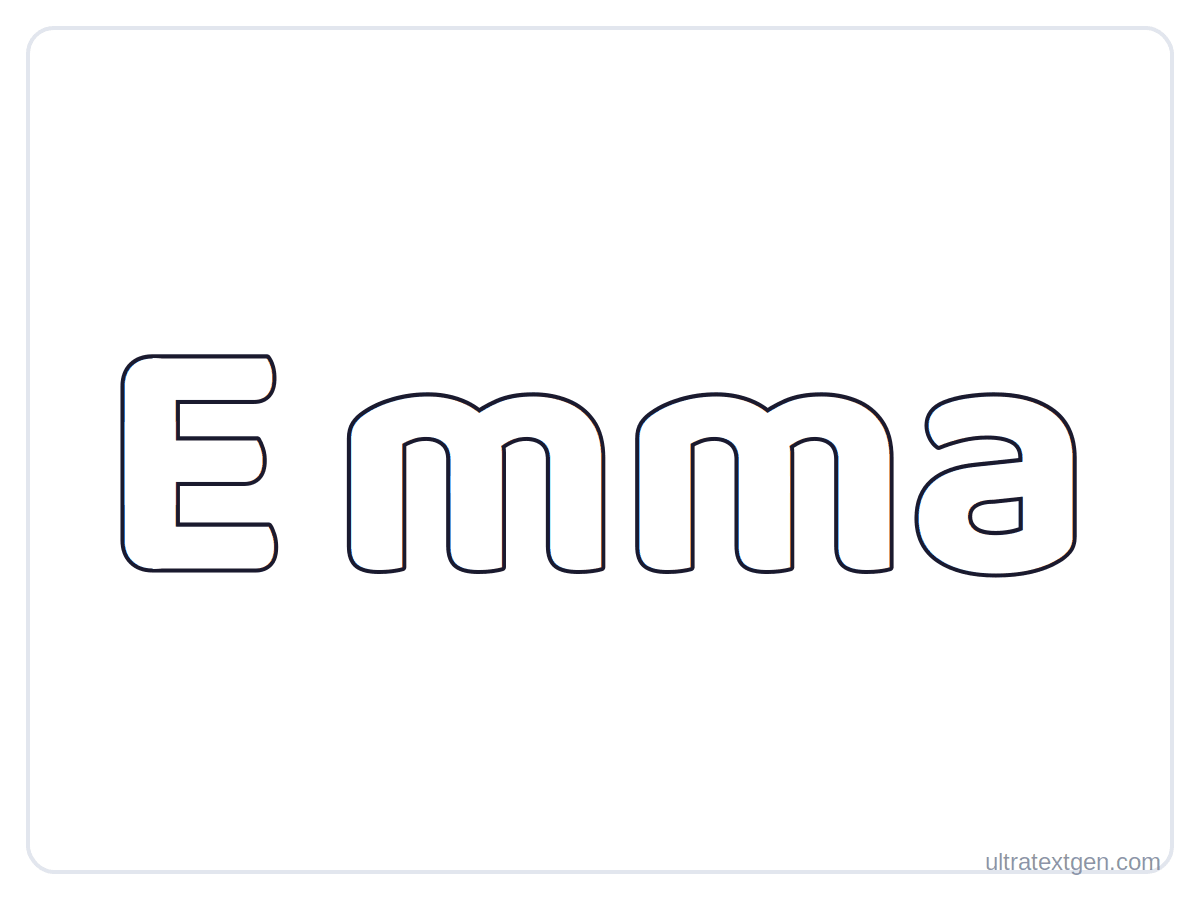
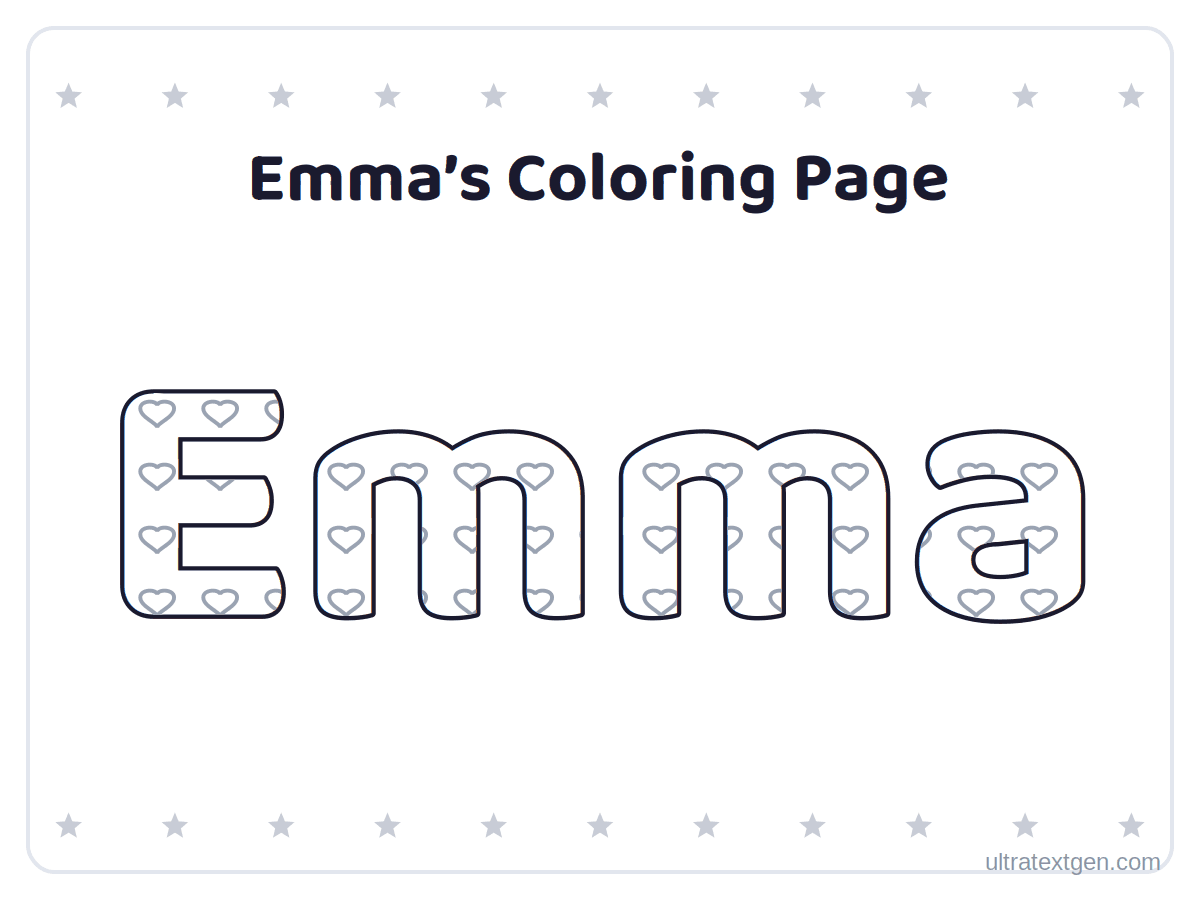
fix(printables): stop the maker's sheet preview copying its own live default
The one indexable image on /printables/coloring-page-maker/ was a raster copy
of the live preview directly above it. Both come from the same value: the
page's `designer.demo: "Emma"`, drawn by r_word_outline as a plain hollow word
with no heading and no border, which is byte-for-byte the state the tool boots
into (designState = {fill:"plain", border:"none"}).

The figure is not decoration and is not removed. generate-printables-previews.py
records why it exists: Bing Images logged impressions and no clicks on the
printables pages because the only indexed image per page was the branded OG
card, and the live preview is JS-built into an empty div, so it is invisible to
image search and to crawlers that run no JavaScript. So the fix is to make it
stop being a duplicate rather than to delete it.

It now draws a configuration the tool really produces and the default does not:
a heart letter fill, a star border row top and bottom, and the page's own
example heading. All geometry is printablesEngine.js's own (BORDER_FS 34 at
y=78, heading 62 at y=168, the 48-unit pattern tile, addBorderRow's 11 symbols)
expressed against its 1000x1400 sheet and mapped onto this landscape card, and
the pattern tile keeps its ratio to the letter so the fill reads as it prints.

Three things that are not obvious:

- The heading is HARVESTED from each page's own #pt-design-heading placeholder,
  never authored here, so the de/it/pl previews carry their own language. The
[…]

diff --git a/printables/alphabet-coloring-pages/index.html b/printables/alphabet-coloring-pages/index.html
@@ -435,7 +435,7 @@ window.__h82AlnkH6D91__("WyJwdWItODI0MjMyNDE2NDQxMzk0NSIsW251bGwsbnVsbCxudWxsLCJ
           <button type="button" class="bubble-btn" id="pt-name-png">Download PNG</button>
         </div>
       </div>
-      <p class="bubble-az-intro">Want patterned letters, a border and a class list? The <a href="/printables/coloring-page-maker/">Coloring Page Maker</a> adds fills, frames and a roster to the same sheet.</p>
+      <p class="bubble-az-intro">Want patterned letters, a border or a class list? The <a href="/printables/coloring-page-maker/">Coloring Page Maker</a> adds fills, frames, a heading, a name-and-date line and a roster to the same sheet.</p>
     </section>
 <figure class="guide-hero-figure pt-sheet-preview">
   <img src="/assets/printables-previews/printables-alphabet-coloring-pages.png" width="1200" height="900"
@@ -609,12 +609,6 @@ window.__h82AlnkH6D91__("WyJwdWItODI0MjMyNDE2NDQxMzk0NSIsW251bGwsbnVsbCxudWxsLCJ
         <a href="/printables/bubble-letters/">bubble letters</a> or
         <a href="/printables/block-letters/">block letter stencils</a>.</p>
     </section>
-
-    <div class="cta-card">
-      <h3>Want a name or word coloring page?</h3>
-      <p>Type any name or word and make your own coloring page — with a heading, a name-and-date line, cute borders, and dotted or starry fills to color.</p>
-      <a class="cta-btn" href="/printables/coloring-page-maker/">Open the coloring page maker →</a>
-    </div>
 
     <div class="cta-card">
       <h3>Want a puzzle before the coloring?</h3>

diff --git a/printables/coloring-page-maker/index.html b/printables/coloring-page-maker/index.html
@@ -310,11 +310,11 @@ window.__h82AlnkH6D91__("WyJwdWItODI0MjMyNDE2NDQxMzk0NSIsW251bGwsbnVsbCxudWxsLCJ
         </div>
       </div>
     </section>
-
 <figure class="guide-hero-figure pt-sheet-preview">
   <img src="/assets/printables-previews/printables-coloring-page-maker.png" width="1200" height="900"
-       alt="Name coloring page sample: the name Emma as large hollow letters to color in" loading="lazy">
+       alt="Name coloring page sample: the name Emma as large hollow letters filled with hearts to color in, under a heading and inside a star border" loading="lazy">
 </figure>
+
 
 
     <!-- Editorial -->

diff --git a/scripts/generate-printables-previews.py b/scripts/generate-printables-previews.py
@@ -24,7 +24,15 @@ stroke, traceWordSVG()'s three ruled guides and dash specs, the dot-to-dot
 engine's outer-silhouette numbered loop, flagSVG()'s dashed pennants. The
 Unicode glyph families (cursive / calligraphy) go through the same registry
 maps in styles.js the engine renders with. Nothing here is a second copy of
-page copy: the image is text-free apart from the letters and the cred line.
+page copy.
+
+Correction 2026-09-16: that sentence used to end "...: the image is text-free
+apart from the letters and the cred line", which the coloring-page-maker sheet
+no longer is, because it draws a heading. The PRINCIPLE is unchanged and is
+the half that binds: the heading is HARVESTED from the page's own
+`#pt-design-heading` placeholder (heading_example below), exactly as `demo`
+and the cross-stitch sample word already are, so there is still one owner and
+a locale page cannot end up with an English heading. Never hardcode copy here.
 
 Build-time only — the same line generate-site-art.py already draws: cairosvg
 rasterises the SVG here, on a developer machine or in CI, and the site ships
@@ -147,6 +155,29 @@ def _first_family(font_css):
     return first or None
 
 
+# "e.g. " / "z. B. " / "es. " / "np. " -- one or two short letter groups, each
+# closed by a period. Every locale writes its own, so the example heading is
+# read off the page and the lead-in stripped rather than authored here.
+EG_PREFIX_RE = re.compile(r"^(?:[^\W\d_]{1,3}\.\s*){1,2}", re.UNICODE)
+
+
+def heading_example(raw):
+    """The example heading a coloring-page-maker page shows in its own
+    `#pt-design-heading` placeholder, minus the locale's "for example" lead-in.
+
+    Refuses rather than guesses: a lead-in this does not recognise would draw
+    "np. Kolorowanka Emmy" onto the sheet, and an image is the one surface no
+    gate in this repo reads, so the failure would be silent."""
+    txt = htmlmod.unescape(raw).strip()
+    out = EG_PREFIX_RE.sub("", txt).strip()
+    if not out or "." in out[:6]:
+        raise SystemExit(
+            f"heading placeholder {txt!r}: cannot tell the \"for example\" lead-in from the "
+            f"heading. Teach EG_PREFIX_RE this locale's form rather than shipping the lead-in "
+            f"into the preview image.")
+    return out
+
+
 def parse_page(rel):
     path = os.path.join(REPO, rel)
     with open(path, encoding="utf-8") as fh:
@@ -163,6 +194,9 @@ def parse_page(rel):
     # The cross-stitch pages carry no *Demo key: their sample word is the
     # value the reader actually sees in the chart input on load.
     stitch_demo = re.search(r'<input\b(?=[^>]*\bid="cs-input")[^>]*\bvalue="([^"]*)"', h)
+    # The designer sheet's optional heading: the page's own example, in the
+    # page's own language (see heading_example).
+    head_ph = re.search(r'<input\b(?=[^>]*\bid="pt-design-heading")[^>]*\bplaceholder="([^"]*)"', h)
     script_font = re.search(r'scriptOptions\s*:\s*\[\s*\{[^}]*?\bfont\s*:\s*"([^"]*)"', cfg, re.S)
     if m:
         engine = "printables"
@@ -189,6 +223,11 @@ def parse_page(rel):
                  or _cfg_str(cfg, "puzzleDemo") or (_js_str(designer.group(1)) if designer else None)
                  or (htmlmod.unescape(stitch_demo.group(1)).strip() or None if stitch_demo else None)),
         "initialChar": _cfg_str(cfg, "initialChar"),
+        "headingDemo": heading_example(head_ph.group(1)) if head_ph else None,
+        # designSheetSVG slices the heading at DESIGN_HEADING_MAX on every path
+        # (typed or preset), so this is what the sheet can actually carry.
+        "headingMax": int(re.search(r"\bheadingMaxChars\s*:\s*(\d+)", cfg).group(1))
+                      if re.search(r"\bheadingMaxChars\s*:\s*(\d+)", cfg) else 48,
     }
 
 
@@ -262,7 +301,7 @@ EN_ALT = {
         "landing": "Sight word tracing worksheet sample for the word {demo}: solid, dotted and dashed rows on ruled lines",
     },
     "coloring-page-maker": {
-        "landing": "Name coloring page sample: the name {demo} as large hollow letters to color in",
+        "landing": "Name coloring page sample: the name {demo} as large hollow letters filled with hearts to color in, under a heading and inside a star border",
     },
     "dot-to-dot-name": {
         "landing": "Dot to dot name sample: {DEMO} as numbered dots to connect, one loop per letter",
@@ -676,8 +715,129 @@ def r_alphabet_grid(page, fd):
     return sheet("".join(parts))
 
 
-def r_word_outline(page, fd, word=None, boxed=True, stroke=None, row=False):
-    """A hollow word (coloring-page-maker's designer sheet, graffiti demo)."""
+# ---------------------------------------------------- designed coloring sheet
+#
+# designSheetSVG() decorations, for the coloring-page-maker family only. The
+# preview used to draw the page's demo word as a PLAIN hollow outline with no
+# heading and no border, which is byte-for-byte the configuration the live tool
+# boots into (designState = {fill:"plain", border:"none"}, DESIGN.demo) -- so
+# the one indexable image on the page was a raster copy of the live preview
+# sitting directly above it, and showed none of the three things the maker can
+# do that the stripped-down name tool on /printables/alphabet-coloring-pages/
+# cannot. It now draws a configuration the tool really produces and the default
+# does not. Audit 2026-09-16.
+#
+# All geometry below is printablesEngine.js's, expressed against ITS sheet
+# (SHEET_W x SHEET_H) and mapped onto this landscape card, so the proportions
+# a reader sees here are the ones that print.
+DESIGN_SHEET_W, DESIGN_SHEET_H, DESIGN_SHEET_M = 1000, 1400, 70
+DESIGN_FRAME_Y = 18          # designSheetSVG's card rect
+DESIGN_BORDER_FS = 34        # BORDER_FS
+DESIGN_BORDER_TOP_Y = 78     # BORDER_TOP_Y
+DESIGN_BORDER_COUNT = 11     # addBorderRow(): count
+DESIGN_BORDER_SIDE = 60      # addBorderRow(): first x
+DESIGN_BORDER_COL = "#c8ccd6"
+DESIGN_HEADING_FS = 62
+DESIGN_HEADING_Y = 168
+DESIGN_CY_HEADING = 740      # designSheetSVG: cy with a heading
+DESIGN_PAT_TILE = 48         # addFillPattern(): non-stripe tile
+DESIGN_PAT_COL = "#9aa3b2"
+DESIGN_PAT_SW = 3
+# The engine's credit band, which is what reserves room under the bottom
+# border row. CREDIT_FS 22, ascent 0.92em, daylight 12.
+DESIGN_CREDIT_ASCENT = 0.92
+DESIGN_BORDER_DESCENT = 0.20
+DESIGN_BORDER_GAP = 12
+
+# Which configuration the preview depicts. Constrained, not decorative: it has
+# to be something a visitor can reproduce in the tool (both keys are in the
+# page's own swatch rows, and "Emma" is 4 characters, inside fillMaxChars 8),
+# and it has to differ from the live default on every axis. Hearts inside a
+# starred frame reads at thumbnail size in image search, where two patterns
+# from the same family would not.
+DESIGN_PREVIEW_FILL = "hearts"
+DESIGN_PREVIEW_BORDER = "stars"
+
+
+def heart_path(cx, cy, s):
+    """heartPath() from printablesEngine.js, verbatim."""
+    y = cy - s * 0.55
+    return (f"M{cx} {y + s * 0.35}"
+            f" C{cx} {y} {cx - s} {y} {cx - s} {y + s * 0.5}"
+            f" C{cx - s} {y + s * 1.05} {cx} {y + s * 1.35} {cx} {y + s * 1.65}"
+            f" C{cx} {y + s * 1.35} {cx + s} {y + s * 1.05} {cx + s} {y + s * 0.5}"
+            f" C{cx + s} {y} {cx} {y} {cx} {y + s * 0.35} Z")
+
+
+def star_path(cx, cy, outer, inner, points=5):
+    """starPath() from printablesEngine.js, verbatim."""
+    d = ""
+    step = math.pi / points
+    for i in range(points * 2):
+        r = outer if i % 2 == 0 else inner
+        a = -math.pi / 2 + i * step
+        d += ("M" if i == 0 else "L") + f"{cx + r * math.cos(a):.1f} {cy + r * math.sin(a):.1f}"
+    return d + "Z"
+
+
+def fill_pattern_def(kind, uid, k):
+    """addFillPattern(): a tiled outline shape painted as the glyph's own fill,
+    so it paints only inside the letters (no clipPath -- text-as-clip is
+    unreliable across renderers, and cairosvg is one of them).
+
+    `k` scales the tile with the letters. The tile is a fixed size on PAPER, so
+    depicting it faithfully means preserving its ratio to the letter, not its
+    absolute size on a canvas that is a different shape from the sheet."""
+    tile = DESIGN_PAT_TILE * k
+    c, sw = DESIGN_PAT_COL, DESIGN_PAT_SW * k
+    m = tile / 2
+    if kind == "dots":
+        shape = f'<circle cx="{m:.1f}" cy="{m:.1f}" r="{12 * k:.1f}" fill="none" stroke="{c}" stroke-width="{sw:.1f}"/>'
+    elif kind == "hearts":
+        shape = f'<path d="{heart_path(m, m, 13 * k)}" fill="none" stroke="{c}" stroke-width="{sw:.1f}"/>'
+    elif kind == "stars":
+        shape = f'<path d="{star_path(m, 25 * k, 15 * k, 7 * k)}" fill="none" stroke="{c}" stroke-width="{sw:.1f}"/>'
+    else:
+        raise SystemExit(f"fill_pattern_def: no tile for {kind!r} (stripes needs patternTransform; add it here)")
+    return (f'<defs><pattern id="{uid}" patternUnits="userSpaceOnUse" '
+            f'width="{tile:.1f}" height="{tile:.1f}">{shape}</pattern></defs>', f"url(#{uid})")
+
+
+def border_row(kind, y, size, left, gap, count=DESIGN_BORDER_COUNT):
+    """addBorderRow(): one row of decorative symbols across the sheet.
+
+    The engine sets these as TEXT and leans on the browser's per-glyph font
+    fallback to find a font holding U+2605 / U+2665. cairosvg has no per-glyph
+    fallback (see CLAUDE.md, generate-site-art.py's font rules), and the page
+    fonts here are display faces that carry neither, so the same shapes are
+    drawn as paths: a star the reader recognises, never tofu or a dropped
+    glyph. They are filled, not stroked, matching the glyph they stand in for."""
+    r = size * 0.36
+    out = []
+    for i in range(count):
+        cx = left + i * gap
+        if kind == "stars":
+            d = star_path(cx, y, r, r * 0.45)
+        elif kind == "hearts":
+            d = heart_path(cx, y - r * 0.55, r * 0.62)
+        else:
+            raise SystemExit(f"border_row: no shape for {kind!r}")
+        out.append(f'<path d="{d}" fill="{DESIGN_BORDER_COL}"/>')
+    return "".join(out)
+
+
+def design_engine_font_size(word):
+    """designSheetSVG's own single-line size for this word, so the preview can
+    keep the tile-to-letter ratio the printed sheet has."""
+    avail = DESIGN_SHEET_W - DESIGN_SHEET_M * 2
+    return max(110, min(360, round(avail * 1.3 / max(1, len(word)))))
+
+
+def r_word_outline(page, fd, word=None, boxed=True, stroke=None, row=False, designed=False):
+    """A hollow word (coloring-page-maker's designer sheet, graffiti demo).
+
+    `designed` adds the three decorations designSheetSVG can put on that sheet
+    and the live tool's default state cannot -- see the DESIGN_* block above."""
     fam = page["family"]
     met = metrics(fd, fam)
     word = word or page["demo"] or "Emma"
@@ -686,14 +846,78 @@ def r_word_outline(page, fd, word=None, boxed=True, stroke=None, row=False):
     if boxed:
         parts.append(f'<rect x="28" y="28" width="{W - 56}" height="{H - 56}" rx="26" fill="#ffffff" '
                      f'stroke="#e2e6ee" stroke-width="4"/>')
-    box_h = 420 if row else 520
-    size = min(fit_size(met, word, W - 200, box_h, spacing, cap_only=False), 560)
+    heading = page["headingDemo"] if designed else None
+    if heading and len(heading) > page["headingMax"]:
+        # The page's own example does not fit the page's own field. Drawing the
+        # truncation the sheet would produce ("Il disegno da colorare di") is
+        # not a heading any visitor would type, so the preview shows none and
+        # says so -- the copy is the thing to fix, not the image.
+        print(f"NOTE {page['rel']}: heading example {heading!r} is {len(heading)} chars over the "
+              f"page's own headingMaxChars {page['headingMax']}; preview drawn without a heading")
+        heading = None
+    if designed:
+        # The sheet's printable width mapped onto this card, which is what the
+        # chrome is measured in. Everything below is the engine's own number
+        # times this, positioned from the card edge the way the engine
+        # positions from its frame.
+        k = (W - 56) / DESIGN_SHEET_W
+        border_top = 28 + (DESIGN_BORDER_TOP_Y - DESIGN_FRAME_Y) * k
+        # The bottom row clears the credit line, derived FROM it exactly as
+        # BORDER_BOTTOM_Y is -- this canvas has its own credit metrics.
+        b_fs = DESIGN_BORDER_FS * k
+        cred_top = (H - 30) - 24 * DESIGN_CREDIT_ASCENT
+        border_bottom = cred_top - b_fs * DESIGN_BORDER_DESCENT - DESIGN_BORDER_GAP * k
+        left = DESIGN_BORDER_SIDE * k
+        gap = (W - 2 * left) / (DESIGN_BORDER_COUNT - 1)
+        parts.append(border_row(DESIGN_PREVIEW_BORDER, border_top, b_fs, left, gap))
+        parts.append(border_row(DESIGN_PREVIEW_BORDER, border_bottom, b_fs, left, gap))
+        head_y = 28 + (DESIGN_HEADING_Y - DESIGN_FRAME_Y) * k
+        h_fs = 0.0
+        if heading:
+            missing = [c for c in heading if c != " " and not met.name(c)]
+            if missing:
+                raise SystemExit(f"{page['rel']}: {fam!r} has no glyph for {''.join(missing)!r} in the "
+                                 f"heading {heading!r}; cairosvg would drop it silently")
+            h_fs = min(DESIGN_HEADING_FS * k,
+                       fit_size(met, heading, W - 2 * DESIGN_SHEET_M * k, 10_000))
+            parts.append(svg_text(W / 2, head_y, heading, fam, h_fs, weight_for(fam), INK,
+                                  extra=' text-anchor="middle"'))
+        # The word sits where it sits on the sheet: the engine's own fraction
+        # of the run between the heading baseline and the bottom border row.
+        span = (DESIGN_CY_HEADING - DESIGN_HEADING_Y) / (1337 - DESIGN_HEADING_Y)
+        cy = head_y + (border_bottom - head_y) * span
+        top_lim = head_y + h_fs * 0.25 + 26
+        bot_lim = border_bottom - b_fs * 0.92 - 26
+        box_h = 2 * min(cy - top_lim, bot_lim - cy)
+        size = min(fit_size(met, word, W - 2 * (left + 30), box_h, spacing, cap_only=False), 560)
+    else:
+        box_h = 420 if row else 520
+        size = min(fit_size(met, word, W - 200, box_h, spacing, cap_only=False), 560)
+        cy = H / 2 - (70 if row else 0)
     s = size / met.upm
     bb = [met.bbox(c) for c in word if c != " "]
     ymax, ymin = max(b[3] for b in bb), min(b[1] for b in bb)
-    cy = H / 2 - (70 if row else 0)
     baseline = cy + (ymax + ymin) / 2 * s
     parts.append(outline_text(met, fam, word, W / 2, baseline, size, stroke or page["stroke"], spacing))
+    if designed:
+        # The pattern goes ON TOP of the finished white-filled outline, rather
+        # than as the glyph's own fill the way designSheetSVG does it.
+        #
+        # Not a style choice. The engine can set paint-order="" for a patterned
+        # letter because a browser strokes only what the reader should see;
+        # cairosvg strokes every contour in the glyph, including the internal
+        # edges where Baloo 2's components overlap, and a transparent pattern
+        # fill leaves them showing. Measured: the same word renders with two
+        # dark bars through every stem here and none in Chromium, which is what
+        # svg_text's own docstring means by "overlapping glyph contours stay
+        # clean". Keeping the white fill under the stroke hides them, exactly
+        # as it already does for a plain sheet, and the pattern then paints
+        # over the white -- identical on paper, which is white.
+        defs, ref = fill_pattern_def(DESIGN_PREVIEW_FILL, "ptpat-" + page["slug"],
+                                     size / design_engine_font_size(word))
+        parts.append(defs)
+        parts.append(outline_text(met, fam, word, W / 2, baseline, size, 0, spacing,
+                                  fill=ref, stroke=None))
     if row:
         letters = list("ABCDEFGHIJKLMNOPQRSTUVWXYZ")
         lay_size = min(72, fit_size(met, letters, W - 120, 10_000, 0.08))
@@ -1092,7 +1316,7 @@ RENDERERS = {
     "handwriting-worksheet-generator": (None, "trace_rows"),
     "letter-tracing": (None, "trace_rows"),
     "sight-word-tracing": (None, "trace_rows"),
-    "coloring-page-maker": (None, "word_outline"),
+    "coloring-page-maker": (None, "design_sheet"),
     "dot-to-dot-name": (None, "dots_word"),
     "name-puzzle-maker": (None, "puzzle"),
     "banner-maker": (None, "banner"),
@@ -1119,7 +1343,7 @@ def render_svg(page, fd):
         "spoke_glyph": r_spoke_glyph,
         "glyph_practice": r_glyph_practice,
         "trace_rows": r_trace_rows,
-        "word_outline": r_word_outline,
+        "design_sheet": lambda p, d: r_word_outline(p, d, designed=True),
         "dots_word": r_dots_word,
         "puzzle": r_puzzle,
         "banner": r_banner,
